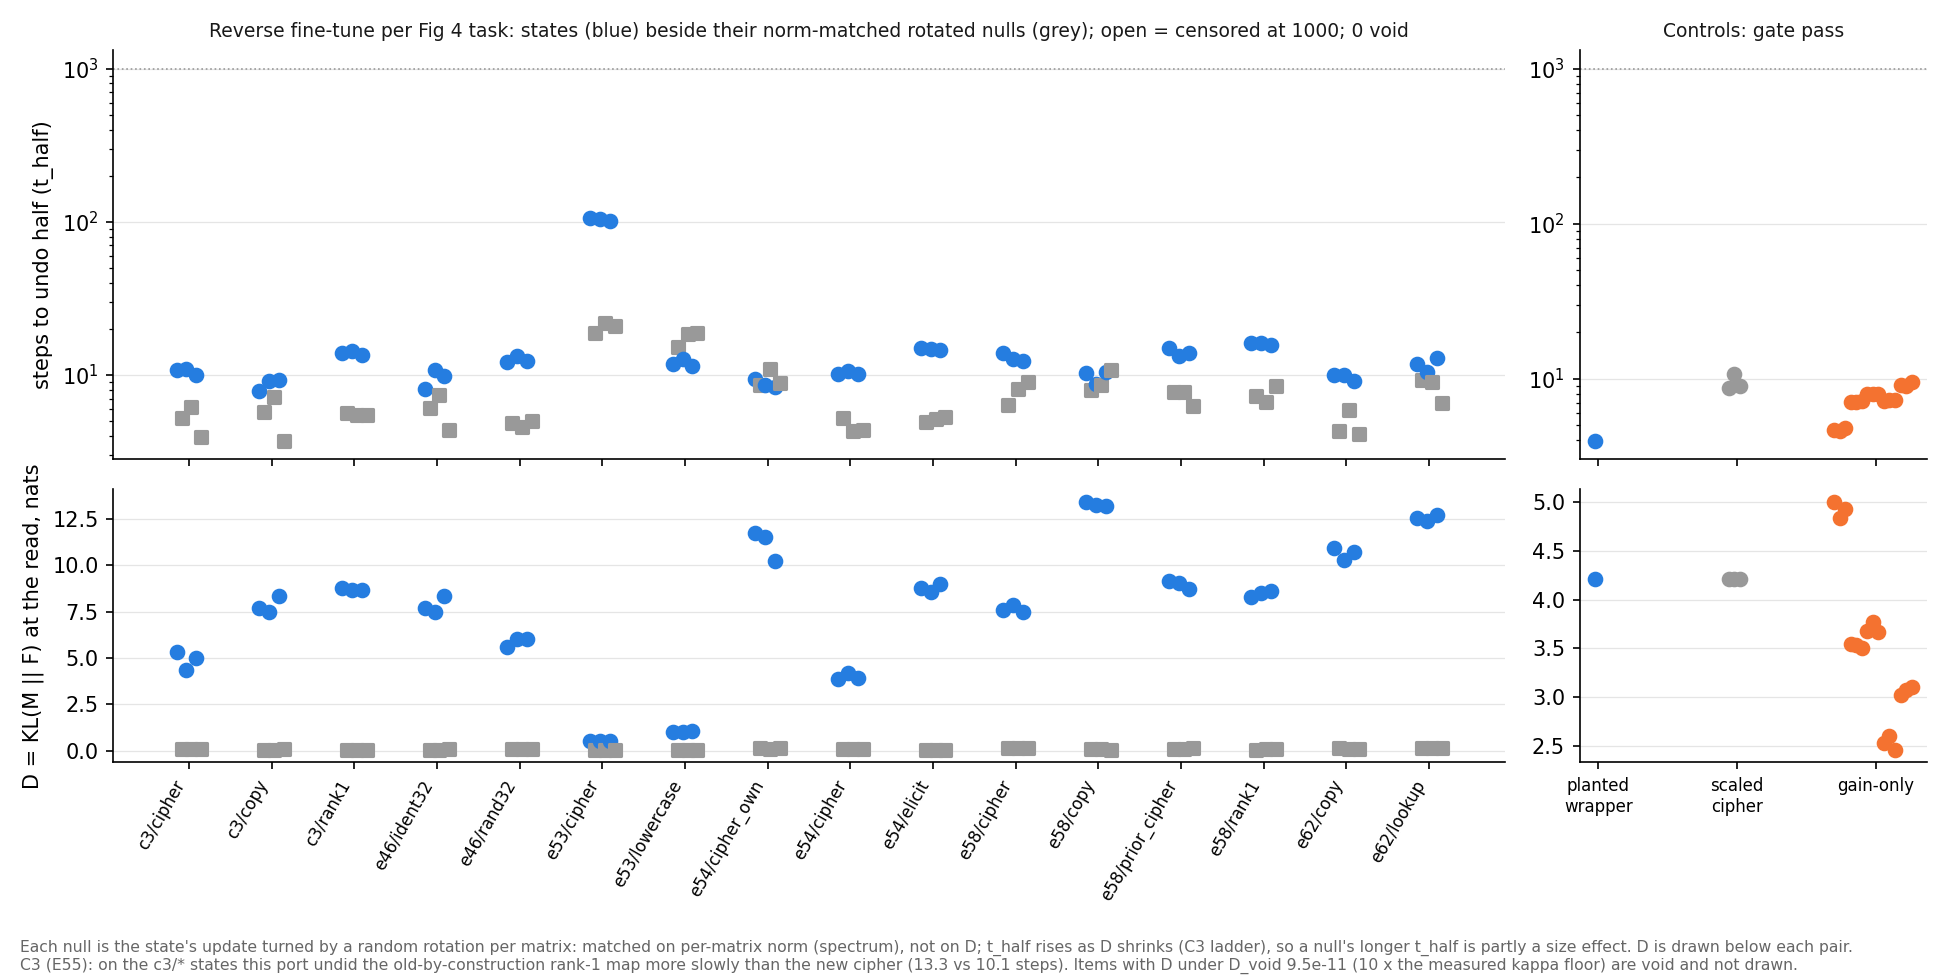
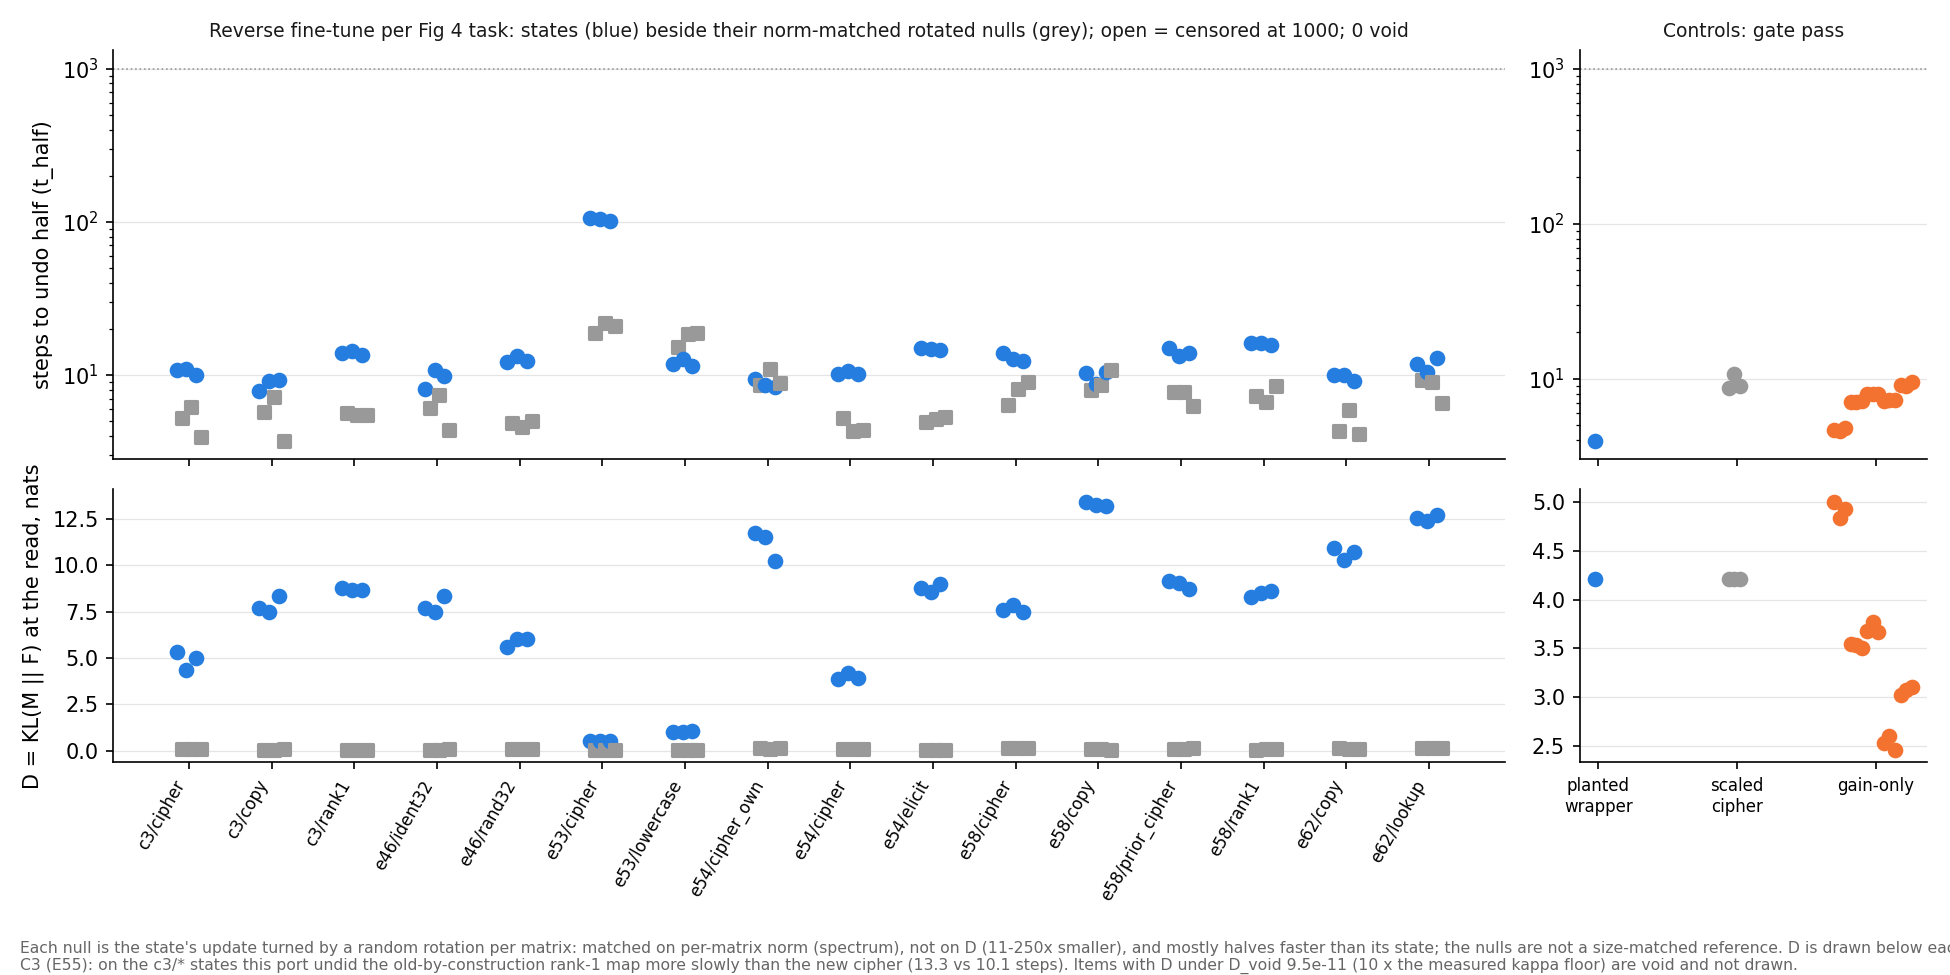
E312 (P2.84) page: redteam fixes (null caption, matched-D reference, e53 read position, D is not learning, no cut-off)

Changed region(s): [[0.4923, 0.9538, 1.0, 0.9846], [0.0615, 0.9538, 0.4615, 0.9846]]

diff --git a/experiments/reverse_ft_fig4/plot.py b/experiments/reverse_ft_fig4/plot.py
@@ -87,8 +87,8 @@ def main() -> None:
     for ax in axes.flat:
         ax.grid(axis="y", color="#e5e5e5", lw=0.6)
         ax.spines[["top", "right"]].set_visible(False)
-    note = ("Each null is the state's update turned by a random rotation per matrix: matched on per-matrix norm (spectrum), not on D; "
-            "t_half rises as D shrinks (C3 ladder), so a null's longer t_half is partly a size effect. D is drawn below each pair.\n"
+    note = ("Each null is the state's update turned by a random rotation per matrix: matched on per-matrix norm (spectrum), not on D "
+            "(11-250x smaller), and mostly halves faster than its state; the nulls are not a size-matched reference. D is drawn below each pair.\n"
             "C3 (E55): on the c3/* states this port undid the old-by-construction rank-1 map more slowly than the new cipher (13.3 vs 10.1 steps). "
             f"Items with D under D_void {S['D_void']:.2g} (10 x the measured kappa floor) are void and not drawn.")  # fmt: skip
     fig.text(0.01, 0.005, note, fontsize=7.5, color="#666666")

diff --git a/reports/analyses/2026-11-25_analysis_p2-84-reverse-ft.md b/reports/analyses/2026-11-25_analysis_p2-84-reverse-ft.md
@@ -3,9 +3,9 @@
 We took the 48 fine-tunes behind the paper's figure of known answers and trained each one back toward the original
 model, counting the steps needed to undo half of the change, as Jain and colleagues do to detect a thin wrapper. Every
 fine-tune came half way back within 17 steps except the text cipher, which took about 100, and the order of the two
-sides flips from pair to pair. For the goals, this method cannot stand in for the definition of reuse: it reads how
-easily the original behaviour returns, which every one of these fine-tunes keeps, and not whether the new behaviour
-runs on the original model's mechanisms.
+sides flips from pair to pair. That is consistent with the earlier test's untested explanation, that the half-life
+reads how easily the original behaviour returns, and by its construction the measure cannot see whether the new
+behaviour runs on the original model's mechanisms, so it cannot stand in for the definition of reuse.
 
 ## The answer
 
@@ -94,12 +94,15 @@ All 111 items ran: 48 states, 48 nulls and 15 gain-only states. None was void an
 **Reading it.** No: the order of the two sides changes from pair to pair. The top panel shows each seed's half-life,
 blue for tasks built to reuse and orange for tasks built new, with each state's rotated null in grey beside it. The
 dashed line is the planted wrapper and the dotted line the D-matched ciphers. Apart from the text cipher, every state
-halves in 7.9 to 16.1 steps. That is well above the wrapper's line, and around or above the ciphers' line. The copying tasks built to reuse halve
-faster than their new partners. The rank-1 and elicitation tasks built to reuse halve slower than theirs. The
-rank-1 map on the 32-key task took 13.95 steps against the cipher's 10.53. That is the same wrong-way order as before.
+halves in 7.9 to 16.1 steps. That is well above the wrapper's line, and around or above the ciphers' line. The
+copying tasks built to reuse halve faster than their new partners. The rank-1 and elicitation tasks built to reuse
+halve slower than theirs. The rank-1 map on the 32-key task took 13.95 steps against the cipher's 10.53. That is the
+same wrong-way order as before. Within each pair the two sides' seed ranges do not overlap, so each pair's order is
+not seed noise. The closest pair is the induction copy, at 9.07 to 9.96 steps, against the lookup at 10.45 to 12.90.
 
-The bottom panel shows why the nulls are no size-matched reference. Their D sits between 11 and 250 times below
-their state's, and yet most of them halve faster.
+The bottom panel shows why the grey nulls are no size-matched reference. Their D sits between 11 and 250 times below
+their state's, and yet most of them halve faster. They are not the reference for reading reuse. The only comparison at
+matched D is the planted wrapper against the scaled ciphers, the two reference lines.
 
 Mean half-life over three seeds for each task, in steps, and mean D in nats. Pairs as in the figure of known answers.
 
@@ -141,13 +144,20 @@ the few swapped words differ from M, while lowercasing changes every capital. Th
 gradient per window. Its slow return is the one place where a state built new reads far slower than its partner, and
 it is also the state with the smallest D.
 
+The start D of 0.51 nats is read at one position per window, the input to the swapped word, not at every position as
+the spec said. This is the same position E53 itself read: index 63 of each window, whose next token is the scored
+form at index 64, in `experiments/performed_anchor/run.py:9-10` and `src/commute/performed.py:214-216`. E53 read the
+log-odds of that next token there, and this run reads the whole distribution at the same place. So this departure from
+the spec keeps the experiment's own read position. The dilution candidate depends on which positions carry the change, and this
+read sees only one of them.
+
 ## Is the half-life just the update's size?
 
 ![Half-life against D for every item](../../experiments/reverse_ft_fig4/figures/page_size.png)
 
 **Reading it.** Not across different updates, and that cuts both ways for the null. On the earlier test's ladder, one
-update was scaled up and down, and its half-life rose as the update shrank. That is why the figure's caption warns that
-a null's longer half-life could be a size effect. Here the nulls sit 11 to 250 times lower in D, and most of them halve
+update was scaled up and down, and its half-life rose as the update shrank. That is why the review and the first caption
+warned that a null's longer half-life could be a size effect. Here the nulls sit 11 to 250 times lower in D, and most of them halve
 *faster* than their state, not slower. Outside the text family, the tasks' mean D runs from 4.0 to 13.3 nats with no
 trend in the half-life. The text cipher is both the smallest D among the states and the slowest. So D does not set the
 half-life. Nor can the null be read as what a change of this size gives. It is matched on norm, and at matched norm it
@@ -156,13 +166,17 @@ the four tasks where the figure also has the full fine-tune, the gain-only seeds
 
 ## What we learned
 
-The method works on the case it was built for: a hand-planted wrapper returns more than twice as fast as a new map at
-the same D. On real fine-tunes it reads something else. The copying tasks come back faster than their partners and the
-rank-1 and elicitation tasks slower, at similar D, so the order follows the task family and not the built side. That
-is the earlier test's explanation at full scale: the half-life reads how easily M's behaviour returns. Every one of
-these fine-tunes but the text cipher keeps M recoverable within about 16 steps. Under the definition of reuse, which asks whether the
-variables F needs still have M's mechanisms, this reading is blind to the question. It goes into the paper's baseline
-figure as a published method shown per task, with the caption saying the rank-1 map comes back slower than the cipher.
+The method separates one hand-planted wrapper, at 3.97 steps, from new maps of the same D. That does not give a
+usable cut-off. The gain-only fine-tunes, wrappers by construction, take 4.6 to 9.5 steps. That range overlaps the
+D-matched ciphers at 8.75 to 10.66 and the fastest real states from 7.9. Gain-only seeds beat the full fine-tune
+only within the same task. On real fine-tunes the copying tasks come back faster than their partners and the rank-1
+and elicitation tasks slower, at similar D. So the order follows the task family and not the built side. That is
+consistent with the earlier test's untested explanation, that the half-life reads how easily M's behaviour returns.
+D counts any change at the read position, so a change that taught almost nothing still gets a half-life. The
+gain-only cipher sits at a D of about 2.5, so D is not how much was learned. The definition of reuse asks whether the
+variables F needs still have M's mechanisms. That is outside what this measure can see by construction, a limit of
+the metric and not a result of this run. It goes into the paper's baseline figure as a published method shown per
+task, with the caption saying the rank-1 map comes back slower than the cipher.
 
 ## How compelling is the evidence
 
@@ -241,7 +255,7 @@ From the spec's Appendix A, `reports/plans/2026-11-25_spec_p2-84-reverse-ft.md`.
   `commute.finetune.finetune_to_reference`, the code of the earlier test.
 - **The text tasks' read.** The spec says D is read at every position of the held text for the text tasks. The code
   reads it at the one read position per window, like the other tasks: `run.py:114-116` cuts each window at that
-  position and `src/commute/revival_kv.py:67-69` averages KL there only.
+  position and `src/commute/revival_kv.py:67-69` averages KL there only. That is the position E53 itself read.
 
 ## Not run
 
